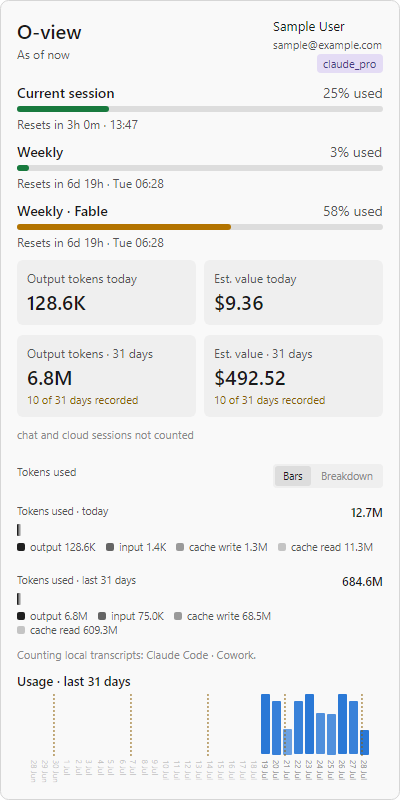
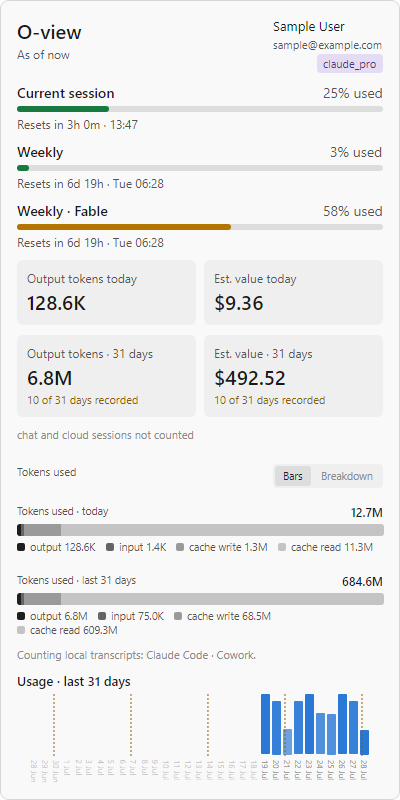
Render the Linux token bars at their laid-out width (OVIAA-254)
The off-screen sample render never went back to controls that invalidated themselves during the arrange, so every picture drew the four token bar segments one pixel wide at the left. A window's layout manager does go back, so the live panel was never wrong.

Changed region(s): [[0.03, 0.7188, 0.96, 0.7812], [0.03, 0.6562, 0.96, 0.6875]]

diff --git a/tests/O-view.Linux.Tests/PanelTokenBarsLayoutTests.cs b/tests/O-view.Linux.Tests/PanelTokenBarsLayoutTests.cs
@@ -1,0 +1,215 @@
+using System.Reflection;
+using Avalonia;
+using Avalonia.Controls;
+using Avalonia.Layout;
+using Avalonia.VisualTree;
+using OView.App.Rendering;
+using OView.Core.Models;
+using OView.Core.Providers.Jsonl;
+using OView.Linux.Panel;
+using OView.Presentation.Panel;
+using OView.Presentation.Samples;
+
+namespace OView.Linux.Tests;
+
+/// <summary>
+/// The width every segment of the two "Tokens used" bars gets, in the two ways the panel is
+/// laid out: by a window, and offscreen for the sample images.
+///
+/// <para><b>What went wrong.</b> The bars size their columns when the track gets its width,
+/// which happens during the arrange. A window's layout manager goes back to the track and lays
+/// it out again. Offscreen nothing did, so every sample image drew four one-pixel segments at
+/// the left of the track, while a window drew the full bar. The stored images matched, so every
+/// check passed.</para>
+///
+/// <para>A test process cannot have a real layout manager: Avalonia only builds one for a
+/// top level, and a top level needs a render loop this process has no windowing subsystem to
+/// supply. <see cref="LayOutLikeAWindow"/> repeats the manager's steps on the public layout
+/// API instead.</para>
+/// </summary>
+public class PanelTokenBarsLayoutTests
+{
+    private const string BarsState = "typical";
+
+    /// <summary>A 400 DIP panel, less its border and padding on each side.</summary>
+    private const double TrackWidthDip = 366;
+
+    /// <summary>
+    /// Output, input, cache write and cache read in the sample's two windows, in whole pixels
+    /// because the grid rounds each column. Input sits on the 3 DIP floor.
+    /// </summary>
+    private static readonly double[] SegmentWidthsDip = [4, 3, 37, 323];
+
+    [Fact]
+    public void AWindowGivesEverySegmentItsWidth()
+    {
+        var panel = Build(BarsState);
+
+        LayOutLikeAWindow(panel);
+
+        AssertBars(panel);
+    }
+
+    [Fact]
+    public void TheOffscreenRenderGivesEverySegmentTheWidthAWindowDoes()
+    {
+        var panel = Build(BarsState);
+
+        PanelSampleRenderer.LayOut(panel);
+
+        AssertBars(panel);
+    }
+
+    /// <summary>
+    /// Every state, against the widths the shared geometry asks for, because the shares differ
+    /// and only one state's widths are written down above. A state with no tokens draws no bars.
+    /// </summary>
+    [Theory]
+    [MemberData(nameof(StateNames))]
+    public void TheOffscreenRenderFillsTheTrackInProportion(string name)
+    {
+        var state = SampleStates.All.Single(s => s.Name == name);
+        var panel = Build(name);
+
+        PanelSampleRenderer.LayOut(panel);
+
+        var view = PanelSections.TokenBars(state.Stats, state.Scope ?? TranscriptScopeReport.Inspect());
+        var tracks = Tracks(panel);
+        Assert.Equal(view.Show ? 2 : 0, tracks.Count);
+        if (!view.Show)
+        {
+            return;
+        }
+
+        AssertProportional(tracks[0], view.Today.Composition);
+        AssertProportional(tracks[1], view.Window31.Composition);
+    }
+
+    private static void AssertProportional(Grid track, TokenComposition composition)
+    {
+        var wanted = TokenBarGeometry.Segments(composition, track.Bounds.Width);
+        var drawn = track.Children.Select(c => c.Bounds).ToList();
+
+        Assert.Equal(wanted.Count, drawn.Count);
+        var edge = 0d;
+        for (var segment = 0; segment < wanted.Count; segment++)
+        {
+            // Within a pixel, because the grid rounds each column to whole pixels.
+            Assert.InRange(drawn[segment].Width, wanted[segment].Width - 1, wanted[segment].Width + 1);
+            Assert.Equal(edge, drawn[segment].X);
+            edge = drawn[segment].Right;
+        }
+
+        Assert.InRange(edge, track.Bounds.Width - 1, track.Bounds.Width + 1);
+    }
+
+    /// <summary>
+    /// The panel the renderer draws for a short display, where the scroll bar narrows the
+    /// content after the bars have already been cut once for a wider track.
+    /// </summary>
+    [Fact]
+    public void TheCappedRenderCutsTheBarsForTheTrackTheScrollBarLeaves()
+    {
+        var state = SampleStates.All.Single(s => s.Name == PanelSampleRenderer.ShortState);
+        var panel = Build(state.Name, PanelDensity.Compact);
+        var fit = PanelFit.Resolve(panel.NaturalHeightDip(), SampleStates.ShortWorkAreaDip);
+        Assert.True(fit.MustScroll);
+        panel.ScrollContent(fit.MustScroll);
+        panel.Height = fit.WindowHeightDip;
+
+        PanelSampleRenderer.LayOut(panel, PanelSampleRenderer.CappedLayoutPasses);
+
+        var view = PanelSections.TokenBars(state.Stats, state.Scope ?? TranscriptScopeReport.Inspect());
+        var tracks = Tracks(panel);
+        Assert.Equal(2, tracks.Count);
+        AssertProportional(tracks[0], view.Today.Composition);
+        AssertProportional(tracks[1], view.Window31.Composition);
+    }
+
+    public static TheoryData<string> StateNames()
+    {
+        var names = new TheoryData<string>();
+        foreach (var state in SampleStates.All)
+        {
+            names.Add(state.Name);
+        }
+
+        return names;
+    }
+
+    private static void AssertBars(Control panel)
+    {
+        var tracks = Tracks(panel);
+        Assert.Equal(2, tracks.Count);
+
+        foreach (var track in tracks)
+        {
+            Assert.Equal(TrackWidthDip, track.Bounds.Width);
+            Assert.Equal(SegmentWidthsDip, track.Children.Select(c => c.Bounds.Width));
+        }
+    }
+
+    /// <summary>
+    /// What a window's layout manager does: lay out from the root, then keep returning to each
+    /// control that invalidated itself, at the constraint and bounds it last had. The panel is
+    /// <c>SizeToContent</c>, so the root gets an unbounded measure in a window too.
+    /// </summary>
+    private static void LayOutLikeAWindow(Control content)
+    {
+        content.Measure(Size.Infinity);
+        content.Arrange(new Rect(content.DesiredSize));
+
+        for (var pass = 0; pass < 10; pass++)
+        {
+            var returned = false;
+            foreach (var control in content.GetVisualDescendants().OfType<Layoutable>())
+            {
+                if (!control.IsMeasureValid
+                    && LayoutInformation.GetPreviousMeasureConstraint(control) is { } constraint)
+                {
+                    control.Measure(constraint);
+                    returned = true;
+                }
+
+                if (!control.IsArrangeValid
+                    && LayoutInformation.GetPreviousArrangeBounds(control) is { } bounds)
+                {
+                    control.Arrange(bounds);
+                    returned = true;
+                }
+            }
+
+            if (!returned)
+            {
+                return;
+            }
+        }
+    }
+
+    /// <summary>The token bars' tracks: the only grids in the panel whose columns are all pixel widths.</summary>
+    private static List<Grid> Tracks(Control panel) =>
+        panel.GetVisualDescendants().OfType<Grid>()
+            .Where(g => g.ColumnDefinitions.Count > 0 && g.ColumnDefinitions.All(c => c.Width.IsAbsolute))
+            .ToList();
+
+    private static PanelContent Build(string name, PanelDensity? density = null)
+    {
+        UseRealFonts();
+
+        var state = SampleStates.All.Single(s => s.Name == name);
+        var panel = new PanelContent(new LinuxPanelTheme(false)) { Density = density ?? PanelDensity.Normal };
+        panel.Populate(state.Snapshot, state.Stats, state.Account, state.Plan, state.Scope,
+            SampleStates.Now, state.Boost, SampleStates.Zone, state.CachedUsage);
+        return panel;
+    }
+
+    /// <summary>
+    /// The font setup <see cref="PanelShortScreenTests"/> already runs once per process, called
+    /// through its own lock: test classes run in parallel, and Avalonia's registry is not safe
+    /// for two of them to fill at once.
+    /// </summary>
+    private static void UseRealFonts() =>
+        typeof(PanelShortScreenTests)
+            .GetMethod("UseRealFonts", BindingFlags.NonPublic | BindingFlags.Static)!
+            .Invoke(null, null);
+}

diff --git a/src/O-view.Linux/Panel/PanelSampleRenderer.cs b/src/O-view.Linux/Panel/PanelSampleRenderer.cs
@@ -1,6 +1,8 @@
 using Avalonia;
 using Avalonia.Controls;
+using Avalonia.Layout;
 using Avalonia.Media.Imaging;
+using Avalonia.VisualTree;
 using OView.App.Rendering;
 using OView.Presentation.Samples;
 
@@ -75,23 +77,32 @@ public static class PanelSampleRenderer
     }
 
     /// <summary>
-    /// How many measure/arrange pairs a capped panel needs before its layout settles. The
-    /// first discovers that the content overflows and brings the scroll bar in; the second
-    /// lays the content out in the narrower column that leaves; the third re-cuts the token
-    /// bars, which size their own segments against the track they were handed.
+    /// How many measure/arrange pairs a capped panel needs from its root. The first discovers
+    /// that the content overflows and brings the scroll bar in; the second lays the content
+    /// out in the narrower column that leaves. <see cref="Settle"/> does the rest.
     ///
     /// <para>Run by hand because nothing offscreen has a layout manager to run them, the
-    /// tree never reaches a window, so an invalidation inside it is never picked up. Counted
-    /// rather than looped-until-valid for the same reason: the root stays valid while a
-    /// descendant is not.</para>
+    /// tree never reaches a window, so an invalidation inside it is never picked up.</para>
     /// </summary>
-    private const int CappedLayoutPasses = 3;
+    public const int CappedLayoutPasses = 2;
 
-    private static void Save(Control content, string path, int passes = 1)
+    /// <summary>
+    /// The most times a control can be gone back to, the same limit a window's layout manager
+    /// stops at, so a control that invalidates itself on every arrange cannot hang the render.
+    /// </summary>
+    private const int MaxSettlePasses = 10;
+
+    /// <summary>
+    /// Lays the tree out as far as a window would before it paints.
+    ///
+    /// <para>The tree must be measured before its desired size is known, and arranged at that
+    /// size before it will render anything but blank. <paramref name="passes"/> repeats that
+    /// from the root; <see cref="Settle"/> then does the part only a layout manager does.</para>
+    ///
+    /// <para>Public so a test can read the bounds this leaves, which is what a render draws.</para>
+    /// </summary>
+    public static void LayOut(Control content, int passes = 1)
     {
-        // The tree must be measured before its desired size is known, and arranged at that
-        // size before it will render anything but blank. A panel with room is done in one
-        // pass, exactly as before.
         for (var pass = 0; pass < passes; pass++)
         {
             content.InvalidateMeasure();
@@ -99,6 +110,56 @@ public static class PanelSampleRenderer
             content.InvalidateArrange();
             content.Arrange(new Rect(content.DesiredSize));
         }
+
+        Settle(content);
+    }
+
+    /// <summary>
+    /// Goes back to every control that invalidated itself during the arrange, at the
+    /// constraint and bounds it last had, until none is left.
+    ///
+    /// <para><b>Why the root's own passes cannot do this.</b> A window's layout manager queues
+    /// the control that invalidated itself and returns to that one control. Repeating the
+    /// layout from the root stops at the first valid ancestor, so a descendant's invalidation
+    /// is never reached. The token bars are the case that showed it: they size their columns
+    /// when their track gets its width, during the arrange, so every sample image drew all four
+    /// segments one pixel wide at the left of the track while the window drew them in full.</para>
+    ///
+    /// <para>A control with no previous constraint has never been laid out, because it sits
+    /// under something hidden, and the layout manager skips those too.</para>
+    /// </summary>
+    private static void Settle(Control content)
+    {
+        for (var pass = 0; pass < MaxSettlePasses; pass++)
+        {
+            var settled = false;
+            foreach (var control in content.GetVisualDescendants().OfType<Layoutable>())
+            {
+                if (!control.IsMeasureValid
+                    && LayoutInformation.GetPreviousMeasureConstraint(control) is { } constraint)
+                {
+                    control.Measure(constraint);
+                    settled = true;
+                }
+
+                if (!control.IsArrangeValid
+                    && LayoutInformation.GetPreviousArrangeBounds(control) is { } bounds)
+                {
+                    control.Arrange(bounds);
+                    settled = true;
+                }
+            }
+
+            if (!settled)
+            {
+                return;
+            }
+        }
+    }
+
+    private static void Save(Control content, string path, int passes = 1)
+    {
+        LayOut(content, passes);
 
         var pixel = new PixelSize(
             Math.Max(1, (int)Math.Ceiling(content.DesiredSize.Width)),
